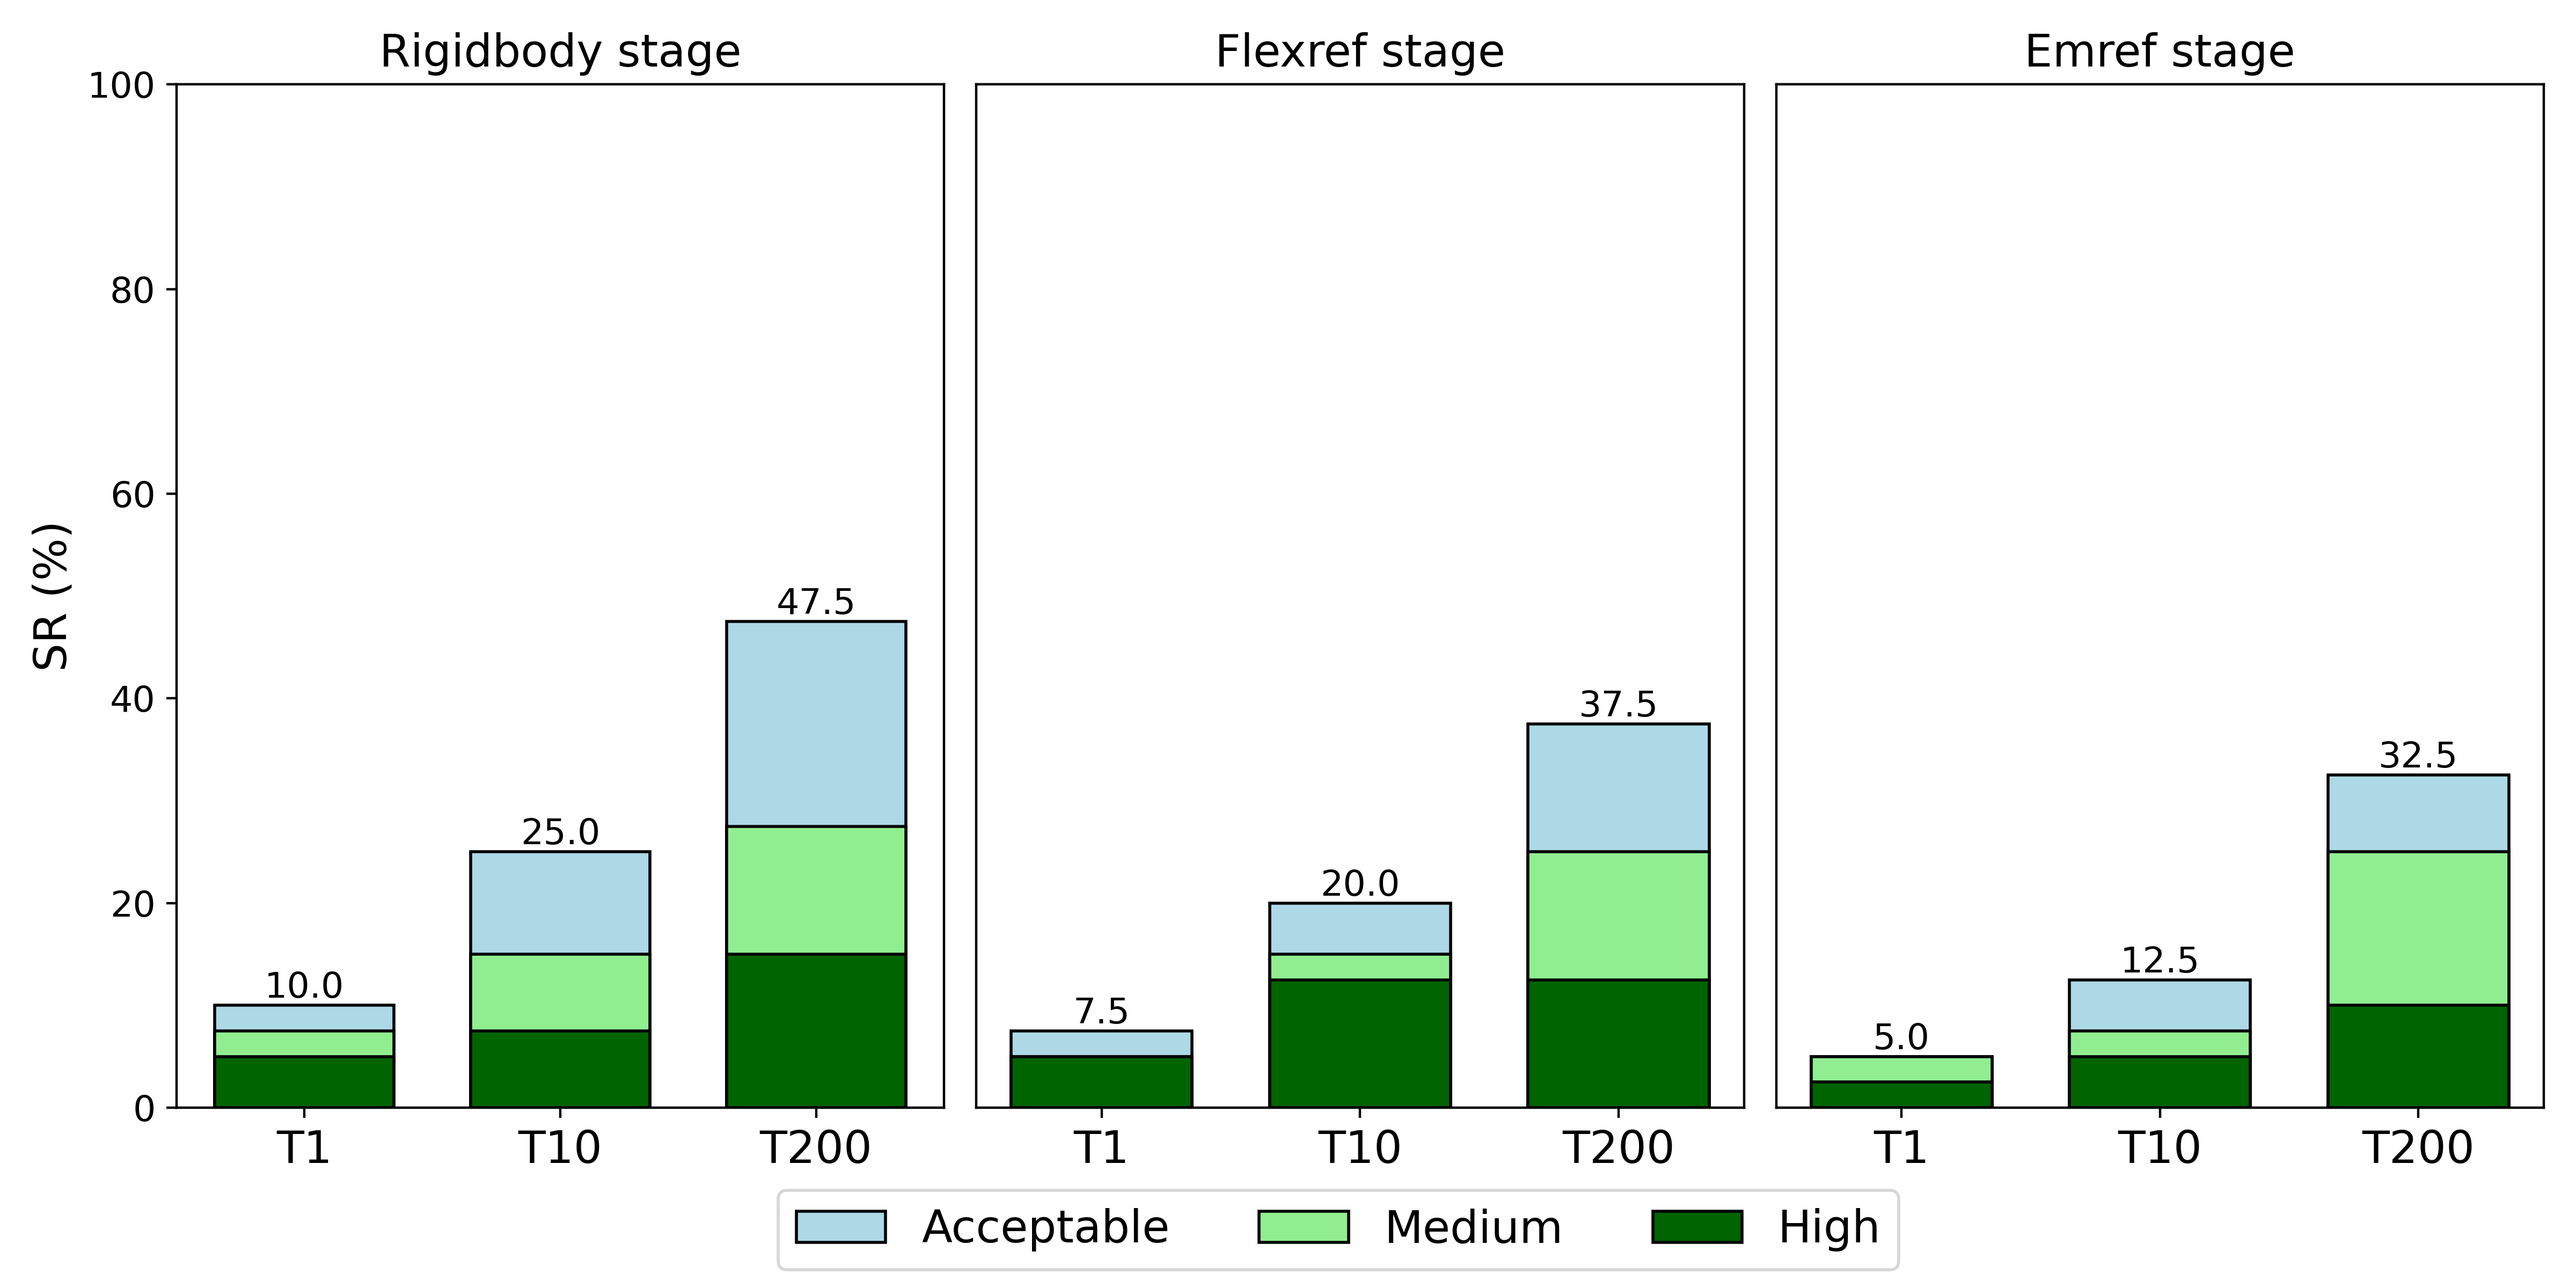
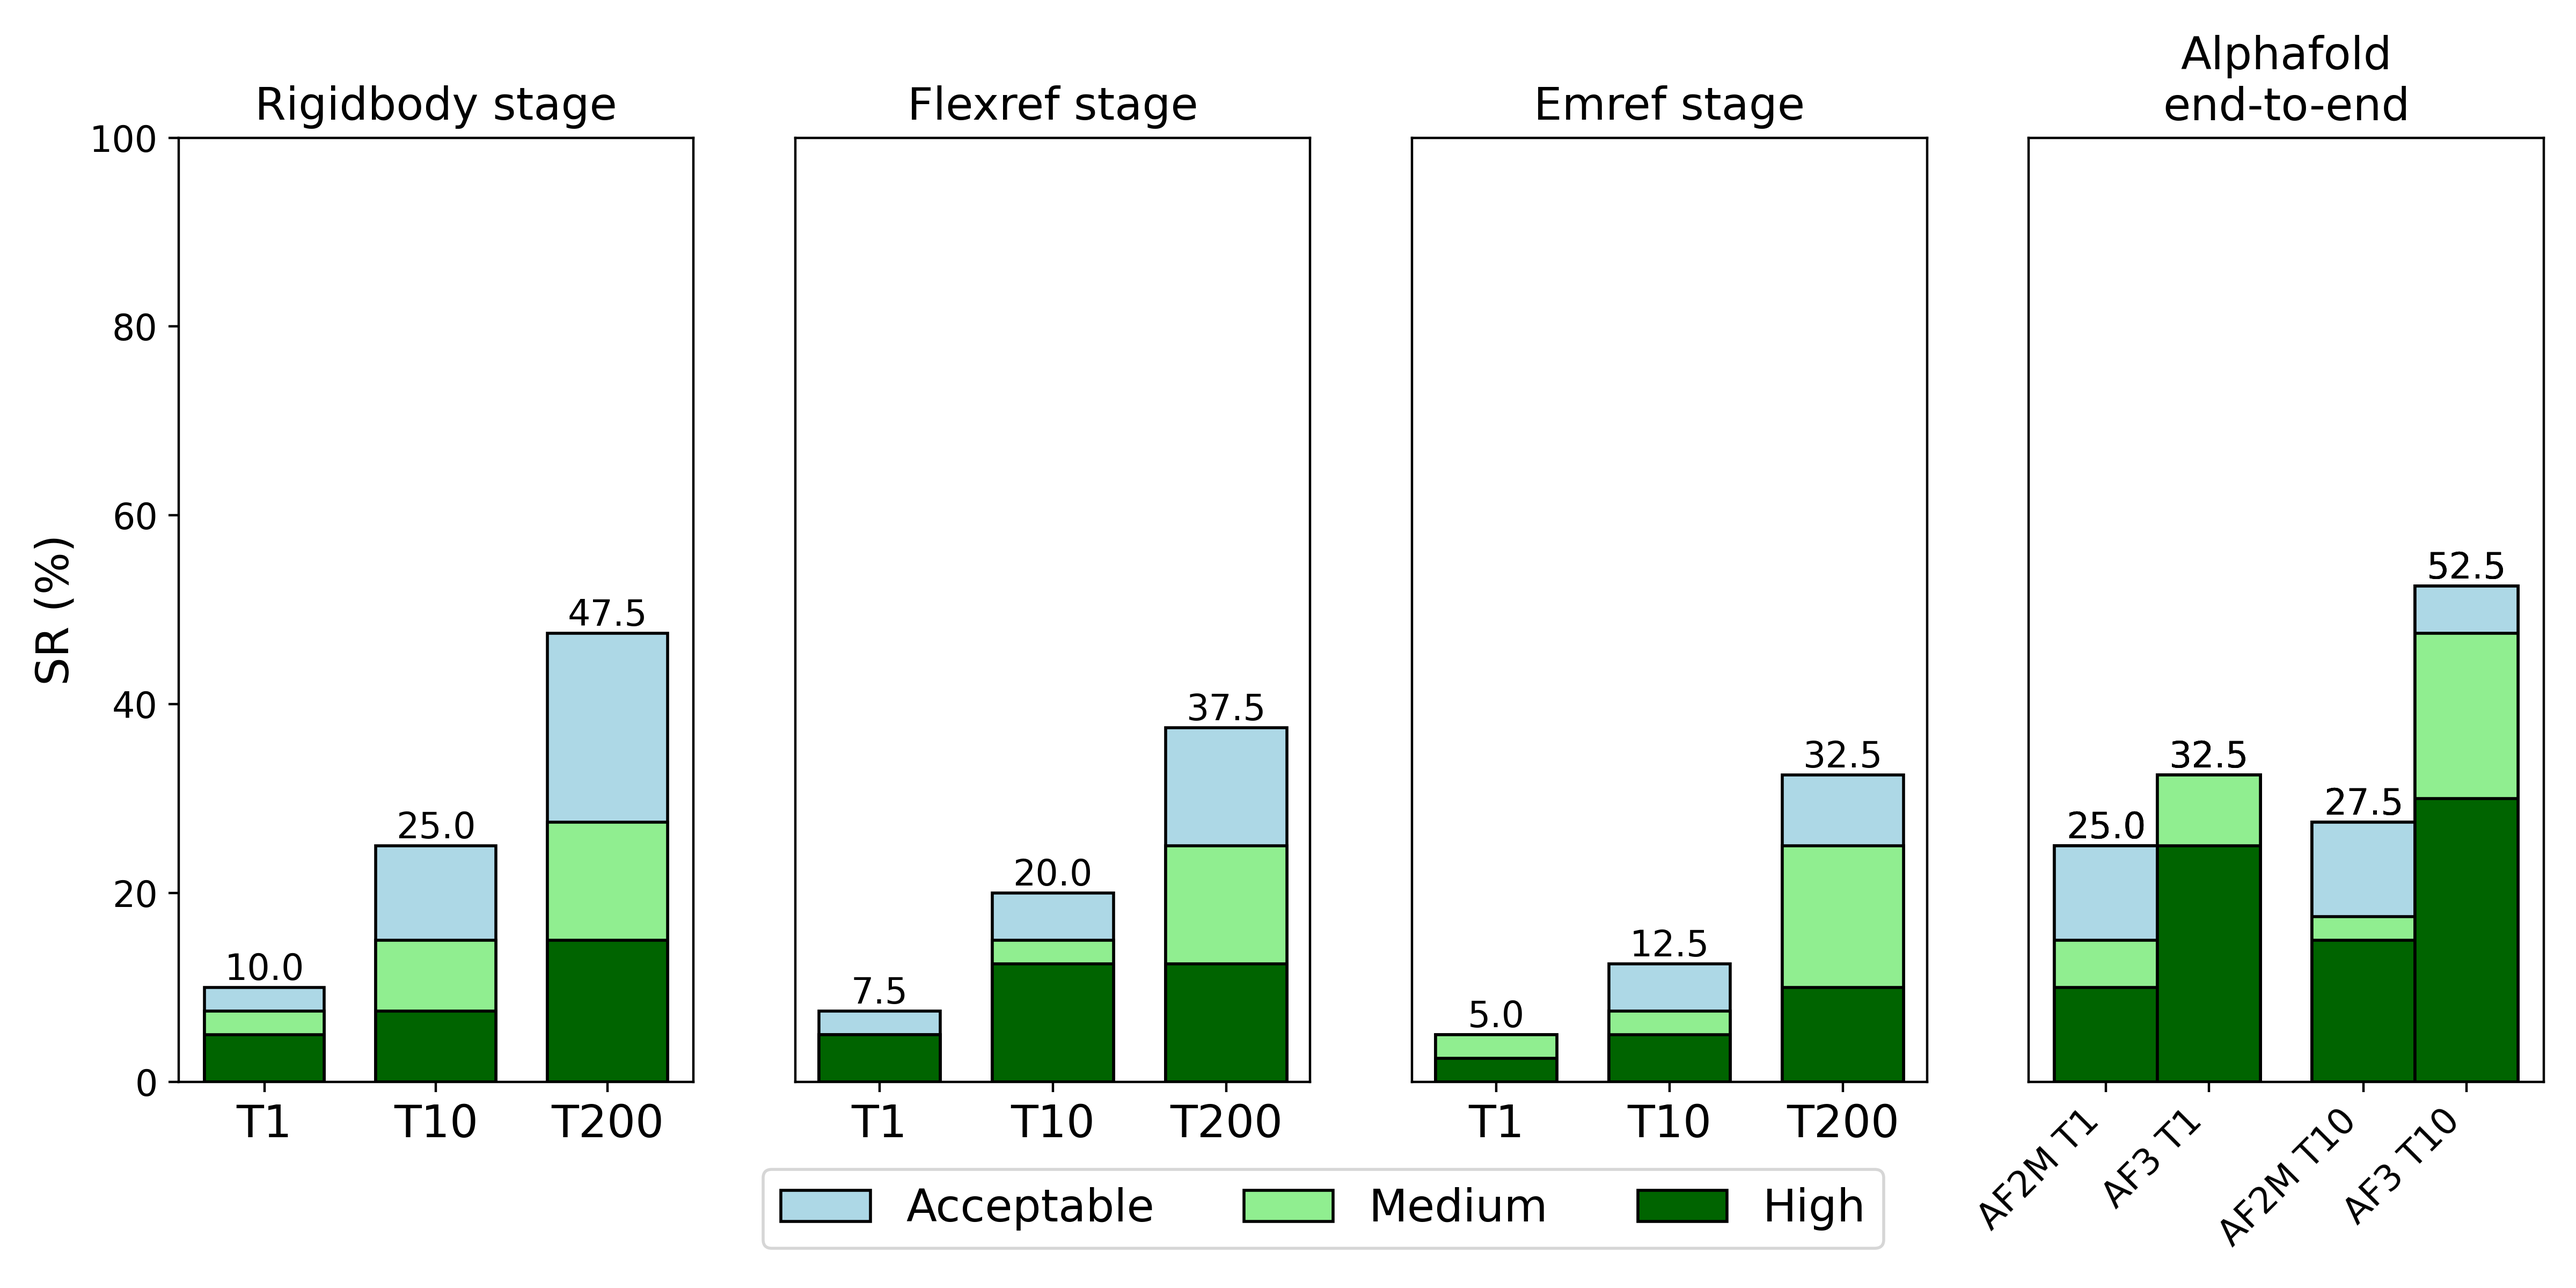
added modifications to SI fig 2

diff --git a/analysis/haddock_docking_sr_scenario_analysis.py b/analysis/haddock_docking_sr_scenario_analysis.py
@@ -305,7 +305,7 @@ print(f"Mix-twohit T10 SR bound: {mix_twohit_sr_b['acc_sr'].values[0]*100:.2f}")
 
 #SUPPLEMENTARY FIGURE 2
 #Bar plots showing docking success rate (SR) for All Surface scenario as a function of the TopN ranked structures.
-fig,axs = plt.subplots(1,3, figsize = (12, 6), width_ratios=[3, 3, 3])
+fig,axs = plt.subplots(1,4, figsize = (12, 6), width_ratios=[3, 3, 3, 3])
 all_surf_data = sr_data[sr_data["scenario"]=="surf"]
 # 
 barwidth = 0.7
@@ -343,21 +343,52 @@ for i in range(3):
     axs[i].set_xticks(bound_bars)
     axs[i].set_xticklabels(["T1", "T10", "T200"], size = 15)
 
+# now let's add alphafold results for top1 and top10
+# we add for all three plots the AFMultimer and AF3 results for top1 and top10
+barwidth = 0.4
+bars_af2 = [0.3, 1.3]
+bars_af3 = [0.7, 1.7]
+for i in range(3):
+    axs[3].set_xlim(0, 2)
+    axs[3].set_ylim(0, 100)
+    axs[3].set_yticks([])
+    if i != 2:
+        axs[3].set_xticks([])
+    else:
+        axs[3].set_xticks(bars_af2 + bars_af3)
+        axs[3].set_xticklabels(af3_xlabels, rotation = 45, ha = "right", size = 12)
+    axs[3].bar(bars_af2, [af_multimer_rank1_list[0], af_multimer_rank10_list[0]], color = "lightblue", alpha = 1, edgecolor = "black", width=barwidth, label = "AF Acceptable")
+    axs[3].bar(bars_af2, [af_multimer_rank1_list[1], af_multimer_rank10_list[1]], color = "lightgreen", alpha = 1, edgecolor = "black", width=barwidth, label = "AF Medium")
+    axs[3].bar(bars_af2, [af_multimer_rank1_list[2], af_multimer_rank10_list[2]], color = "darkgreen", alpha = 1, edgecolor = "black", width=barwidth, label = "AF High")
+
+    axs[3].bar(bars_af3, [af3_rank1_list[0], af3_rank10_list[0]], color = "lightblue", alpha = 1, edgecolor = "black", width=barwidth, label = "AF Acceptable")
+    axs[3].bar(bars_af3, [af3_rank1_list[1], af3_rank10_list[1]], color = "lightgreen", alpha = 1, edgecolor = "black", width=barwidth, label = "AF Medium")
+    axs[3].bar(bars_af3, [af3_rank1_list[2], af3_rank10_list[2]], color = "darkgreen", alpha = 1, edgecolor = "black", width=barwidth, label = "AF High")
+
+    #and we plot the sum above the bars
+    axs[3].text(0.3, af_multimer_rank1_list[0], f"{af_multimer_rank1_list[0]:.1f}", ha = "center", va = "bottom", rotation = 0, fontsize = 12, horizontalalignment='center', verticalalignment='center')
+    axs[3].text(0.7, af3_rank1_list[0], f"{af3_rank1_list[0]:.1f}", ha = "center", va = "bottom", rotation = 0, fontsize = 12, horizontalalignment='center', verticalalignment='center')
+    axs[3].text(1.3, af_multimer_rank10_list[0], f"{af_multimer_rank10_list[0]:.1f}", ha = "center", va = "bottom", rotation = 0, fontsize = 12, horizontalalignment='center', verticalalignment='center')
+    axs[3].text(1.7, af3_rank10_list[0], f"{af3_rank10_list[0]:.1f}", ha = "center", va = "bottom", rotation = 0, fontsize = 12, horizontalalignment='center', verticalalignment='center')
+
 #we plot the name of the stages
 axs[0].set_title("Rigidbody stage", fontsize = 15)
 axs[1].set_title("Flexref stage", fontsize = 15)
 axs[2].set_title("Emref stage", fontsize = 15)
+axs[3].set_title("Alphafold\nend-to-end", fontsize = 15)
+
 axs[0].set_ylabel("SR (%)", size = 15)
 # empty y tick labels on axs[1] and axs[2]
 axs[1].set_yticks([])
 axs[2].set_yticks([])
+axs[3].set_yticks([])
 axs[0].set_yticks([0, 20, 40, 60, 80, 100])
 axs[0].set_yticklabels([0, 20, 40, 60, 80, 100], size = 12)
 
 handles, labels = axs[0].get_legend_handles_labels()
 plt.tight_layout()
-plt.subplots_adjust(bottom=0.14)
-plt.legend(handles, labels, loc = "lower center", fontsize = 15, ncol = 3, bbox_to_anchor=(-0.57, -0.18))
+plt.subplots_adjust(bottom=0.16)
+plt.legend(handles, labels, loc = "lower center", fontsize = 15, ncol = 3, bbox_to_anchor=(-1.37, -0.2))
 plt.savefig(Path("figures", "SI_figure2.png"), dpi=400)
 
 # ##SUPPLEMENTARY FIGURE 3A
